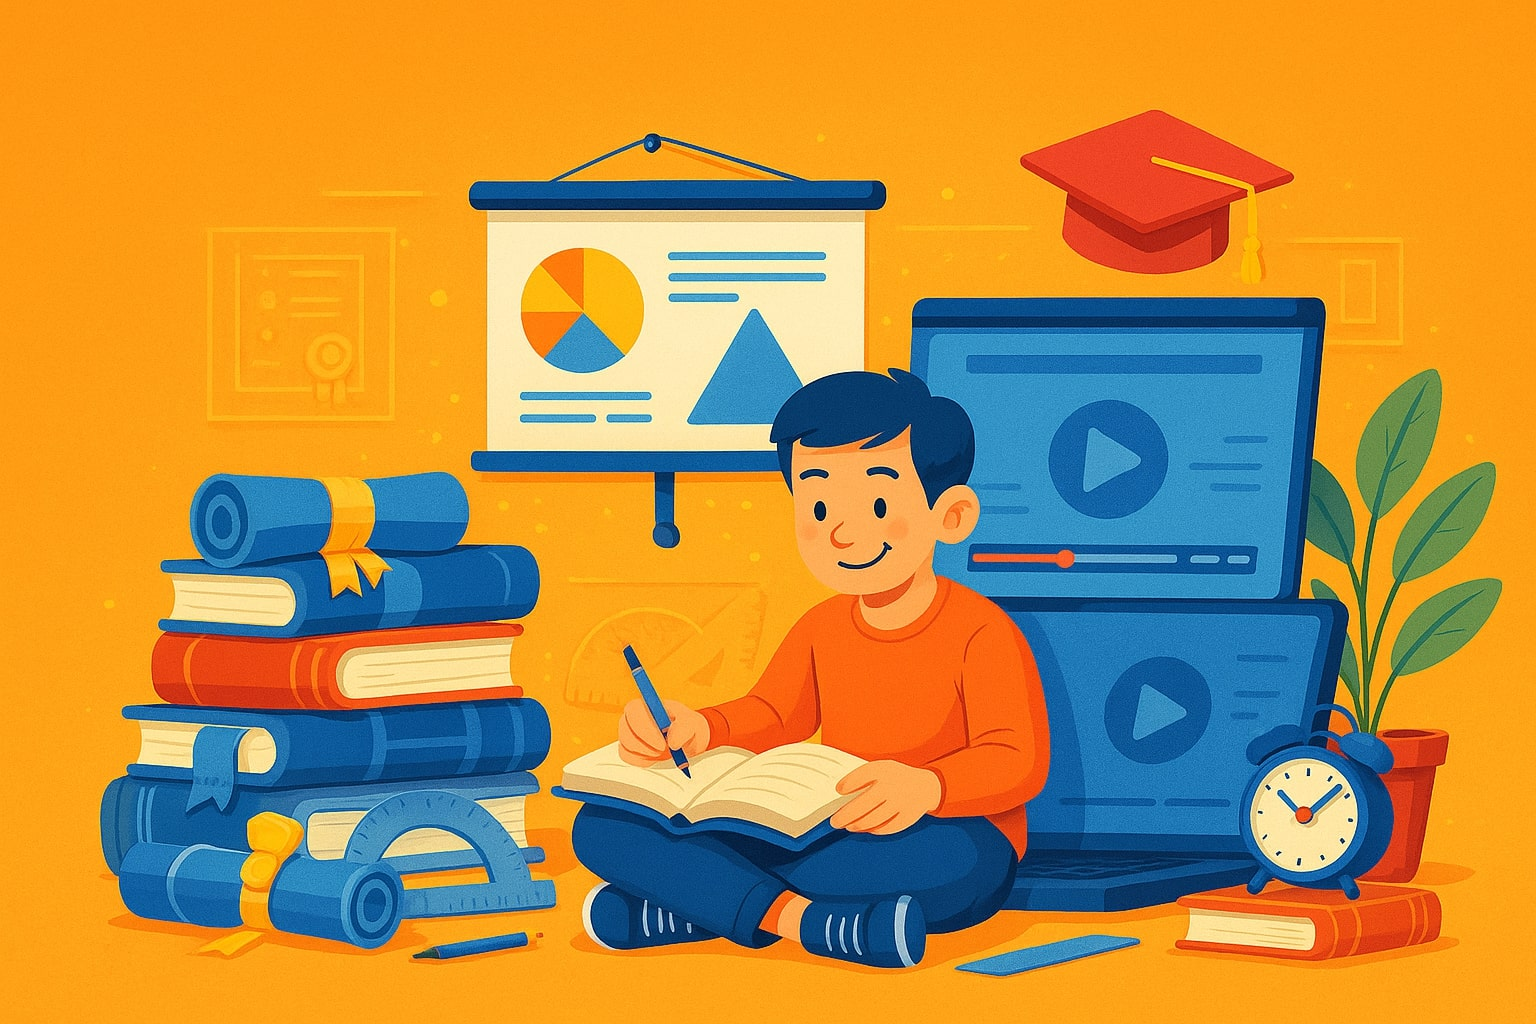
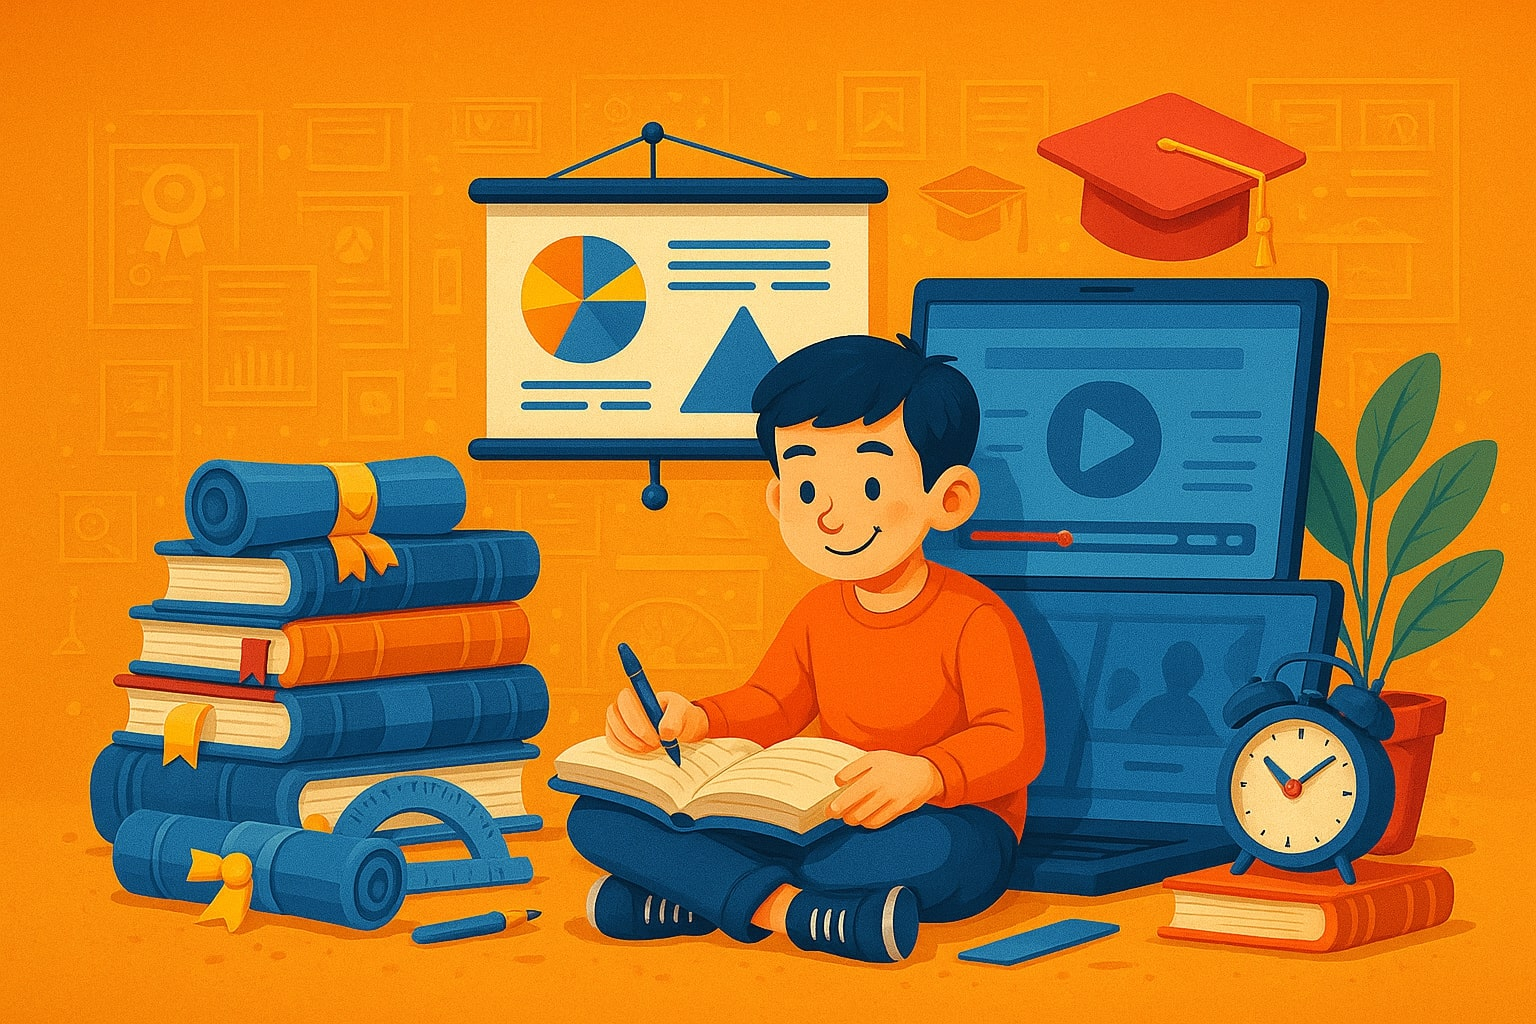
bg image changed

diff --git a/client/src/app/(landing-page)/home/page.js b/client/src/app/(landing-page)/home/page.js
@@ -87,7 +87,7 @@ export default function Home() {
         className="relative bg-gradient-to-r from-orange-600 to-orange-400 h-screen flex items-center justify-center text-center px-6 bg-cover bg-center"
         style={{
           backgroundImage:
-            "url('https://images.unsplash.com/photo-1541339907198-e08756dedf3f?q=80&w=2070&auto=format&fit=crop&ixlib=rb-4.0.3&ixid=M3wxMjA3fDB8MHxwaG90by1wYWdlfHx8fGVufDB8fHx8fA%3D%3D')",
+            "url('/images/bgJiggasha.jpg')",
           backgroundColor: "rgba(255, 140, 0, 0.3)",
           backgroundBlendMode: "multiply",
           backgroundSize: "cover",

diff --git a/client/src/middleware.js b/client/src/middleware.js
@@ -44,5 +44,5 @@ export default async function middleware(req) {
 }
 
 export const config = {
-  matcher: ["/((?!api|_next/static|_next/image|.*\\.png$).*)"],
+  matcher: ["/((?!api|_next/static|_next/image|.*\\.(?:png|jpg|jpeg|gif|svg|webp|ico|css|js|txt|json|woff|woff2|eot|ttf|otf)$).*)"],
 };
